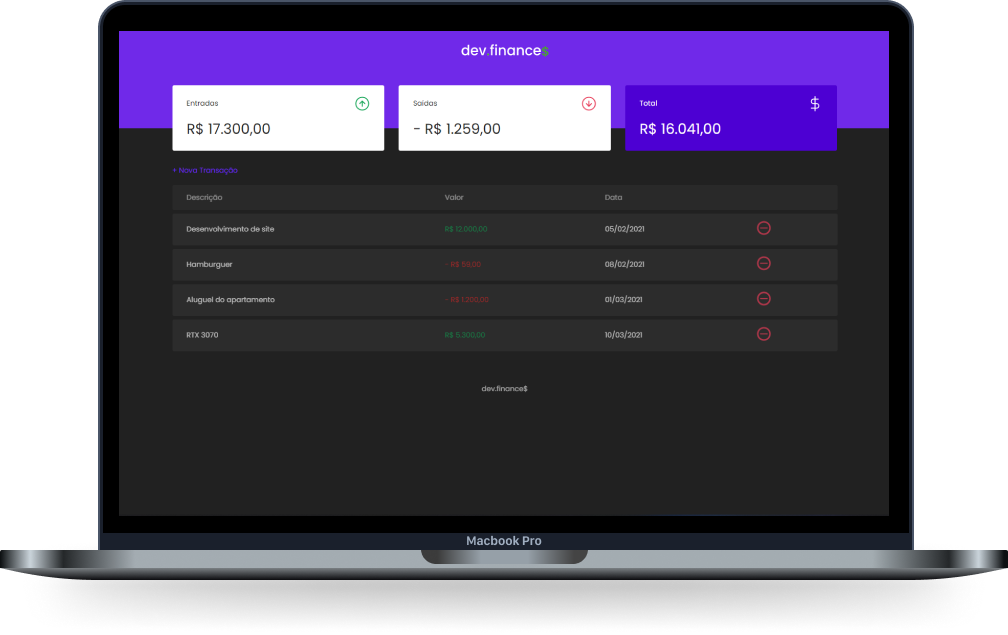
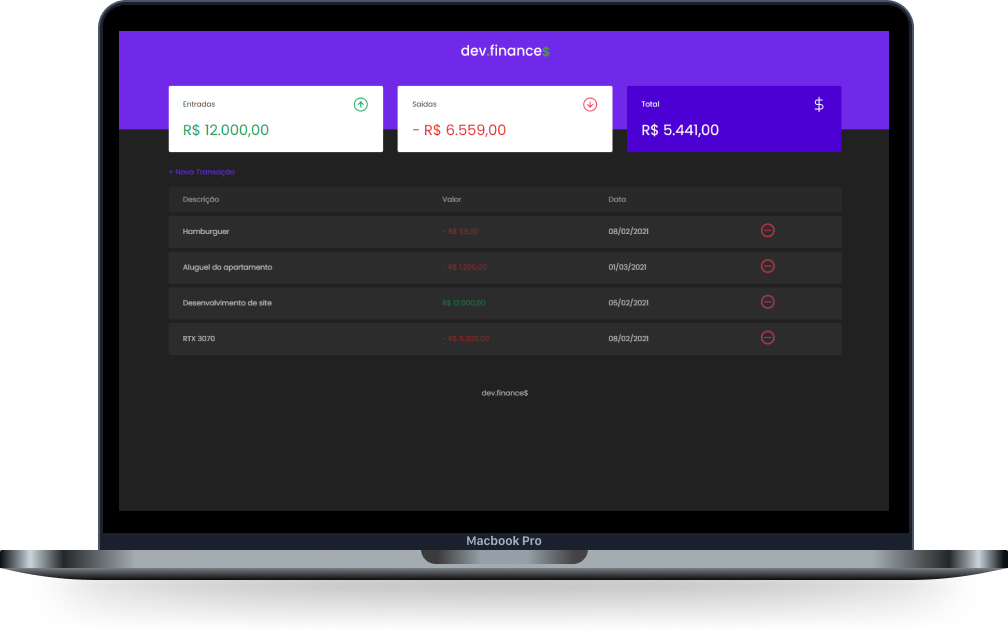
Change card text color

diff --git a/assets/css/style.css b/assets/css/style.css
@@ -17,6 +17,8 @@
   --color-card-title: #212121;
   --color-card-total: #4d00d3;
   --color-card-total-title: #ffffff;
+  --color-card-income: #12a454;
+  --color-card-expense: #e92929;
 
   --color-table-body: #313131;
   --color-table-text: #ffffff;
@@ -138,7 +140,8 @@ header {
 #logo {
   display: block;
   width: 170px;
-  margin: 0 auto
+  margin: 0 auto;
+  user-select: none;
 }
 
 /* Balance */
@@ -174,8 +177,17 @@ header {
   justify-content: space-between;
 }
 
+.card__content #card--income {
+  color: var(--color-card-income);
+}
+
+.card__content #card--expense {
+  color: var(--color-card-expense);
+}
+
 .card__content .card--image {
   width: 30px;
+  user-select: none;
 }
 
 .card__content .card__balance {
@@ -230,6 +242,10 @@ header {
   background: var(--color-table-body);
   color: var(--color-table-text);
   padding: 1rem 2rem;
+}
+
+#table__content img {
+  user-select: none;
 }
 
 #table__content .table--description {
